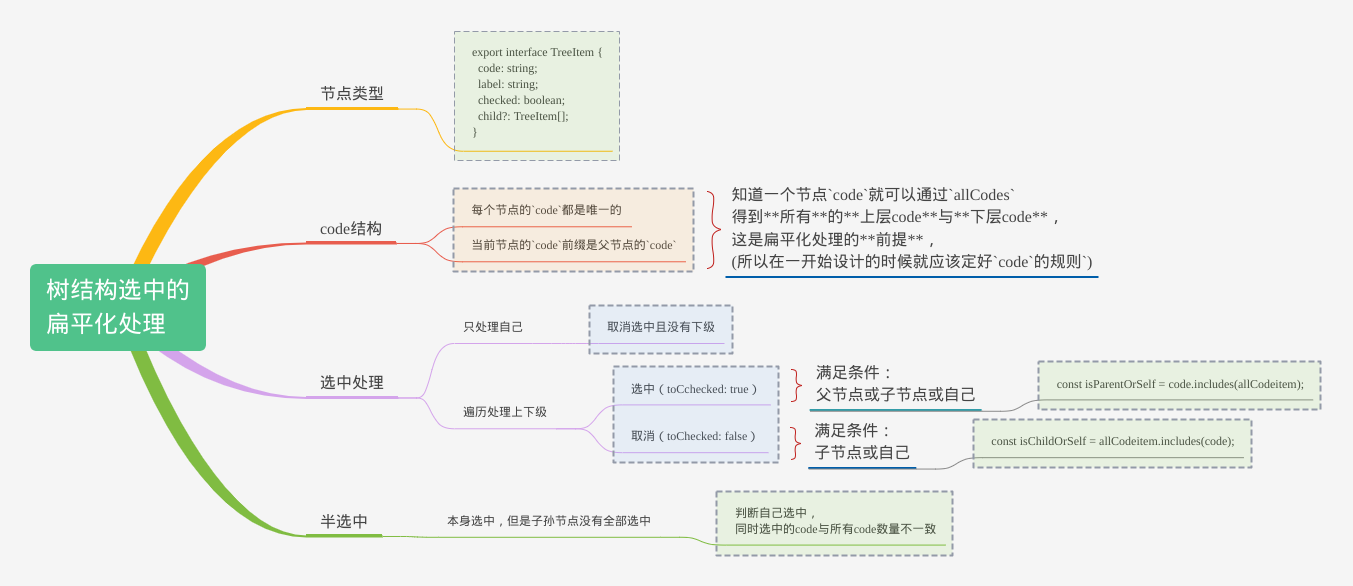
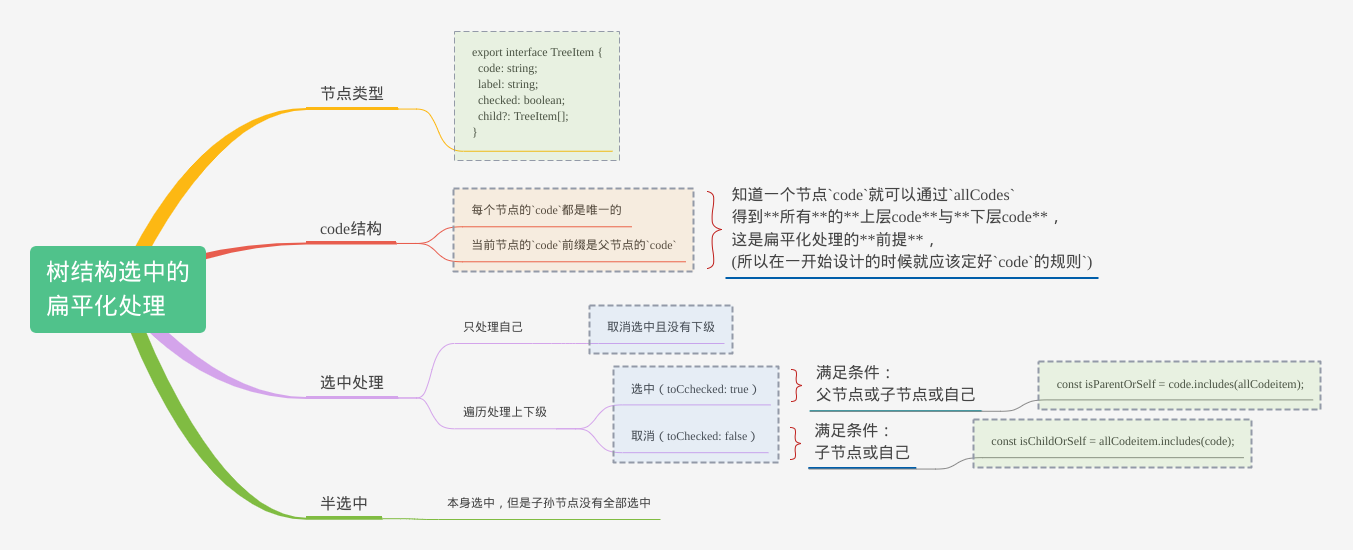
docs: 修改README

diff --git a/README.md b/README.md
@@ -265,7 +265,7 @@ export const TreeNode: React.FC<TreeNodeProps> = ({
 
 类型: `isIndeterminate: (code: string) => boolean;` 
 
-判断自己选中，  同时选中的code与所有code数量不一致
+判断自己选中，  同时子孙节点没有全部选中
 
 ```ts
   /** 半选中 */
